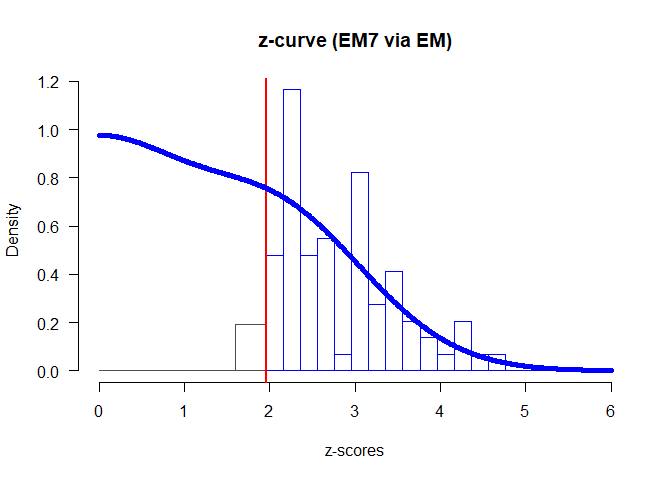
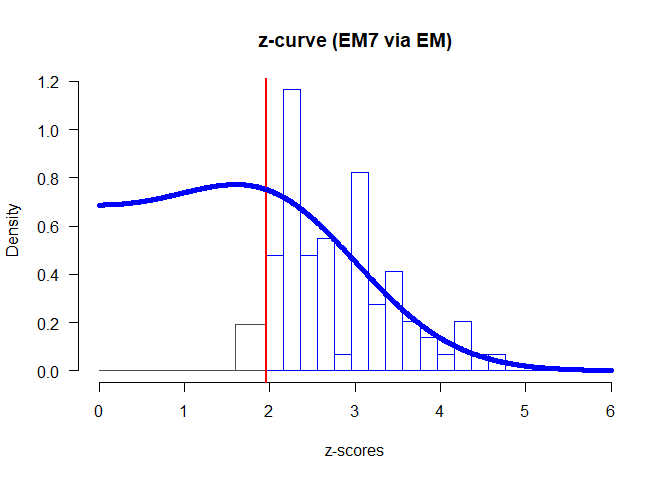
travis fix

Changed region(s): [[0.125, 0.2812, 0.4062, 0.4375]]

diff --git a/README.md b/README.md
@@ -6,8 +6,6 @@
 <!-- badges: start -->
 
 [![Travis build
-status](https://travis-ci.org/FBartos/zcurve.svg?branch=master)](https://travis-ci.org/FBartos/zcurve)
-[![Travis build
 status](https://travis-ci.com/FBartos/zcurve.svg?branch=master)](https://travis-ci.com/FBartos/zcurve)
 <!-- badges: end -->
 
@@ -65,11 +63,11 @@ summary(fit)
 #> model: EM7 via EM
 #> 
 #>     Estimate  l.CI  u.CI
-#> ERR    0.620 0.471 0.754
-#> EDR    0.404 0.085 0.702
+#> ERR    0.616 0.448 0.747
+#> EDR    0.448 0.072 0.700
 #> 
-#> Model converged in 38 + 67 iterations
-#> Q = -60.61, 95% CI[-71.31, -48.41]
+#> Model converged in 59 + 63 iterations
+#> Q = -60.62, 95% CI[-70.68, -46.54]
 ```
 
 More details from the fitted object can be extracted from the fitted
@@ -84,15 +82,15 @@ summary(fit, all = TRUE)
 #> model: EM7 via EM
 #> 
 #>               Estimate  l.CI   u.CI
-#> ERR              0.620 0.471  0.754
-#> EDR              0.404 0.085  0.702
-#> Soric FDR        0.078 0.022  0.566
-#> File Drawer R    1.475 0.424 10.757
-#> Expected N         210   121    999
-#> Missing N         -120  -909    -31
+#> ERR              0.616 0.448  0.747
+#> EDR              0.448 0.072  0.700
+#> Soric FDR        0.065 0.023  0.674
+#> File Drawer R    1.233 0.428 12.800
+#> Expected N         190   121   1173
+#> Missing N         -100 -1083    -31
 #> 
-#> Model converged in 38 + 67 iterations
-#> Q = -60.61, 95% CI[-71.31, -48.41]
+#> Model converged in 59 + 63 iterations
+#> Q = -60.62, 95% CI[-70.68, -46.54]
 ```
 
 For more information regarding the fitted model weights add ‘type =
@@ -106,16 +104,16 @@ summary(fit, type = "parameters")
 #> model: EM7 via EM
 #> 
 #>   Mean  Weight  l.CI  u.CI
-#> 1 0.000  0.050 0.000 0.377
-#> 2 1.000  0.007 0.000 0.424
-#> 3 2.000  0.742 0.002 0.998
-#> 4 3.000  0.201 0.000 0.654
+#> 1 0.000  0.021 0.000 0.428
+#> 2 1.000  0.069 0.000 0.440
+#> 3 2.000  0.697 0.001 0.998
+#> 4 3.000  0.213 0.000 0.643
 #> 5 4.000  0.000 0.000 0.000
 #> 6 5.000  0.000 0.000 0.000
 #> 7 6.000  0.000 0.000 0.000
 #> 
-#> Model converged in 38 + 67 iterations
-#> Q = -60.61, 95% CI[-71.31, -48.41]
+#> Model converged in 59 + 63 iterations
+#> Q = -60.62, 95% CI[-70.68, -46.54]
 ```
 
 The package also provides a convenient plotting method for the z-curve
@@ -190,7 +188,7 @@ information about the control settings see ‘?control\_EM’,
 
 ## Sources
 
-Bartoš., & Schimmack U. (in preparation). Z-Curve2.0: Estimating
+Bartoš F., & Schimmack U. (in preparation). Z-Curve2.0: Estimating
 Replication Rates and Discovery Rates.
 
 Brunner J. & Schimmack U. (2019). Estimating population mean power under
